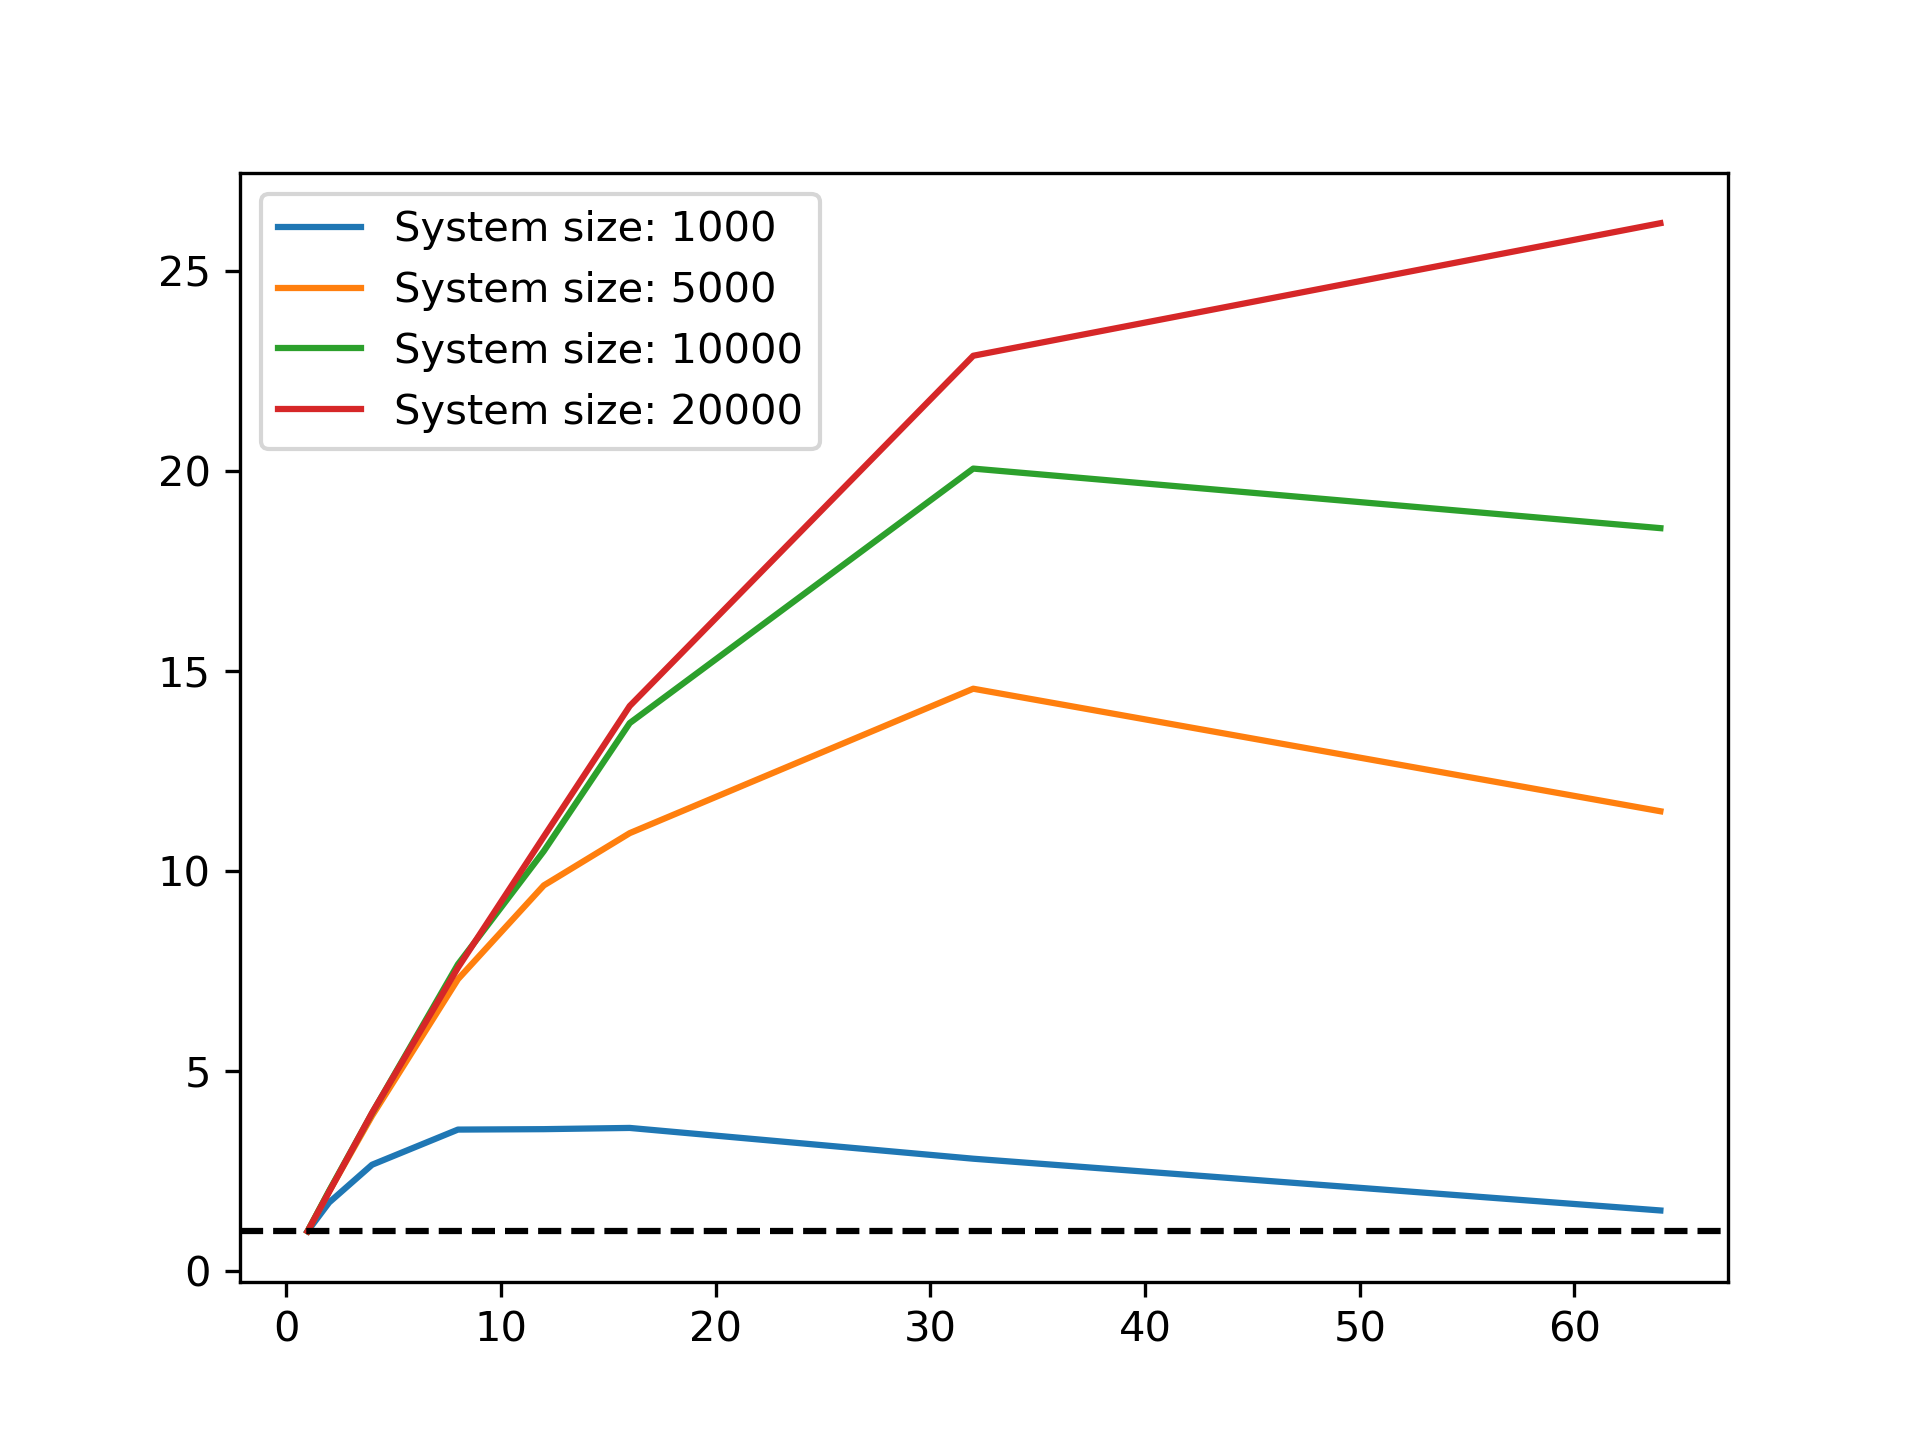
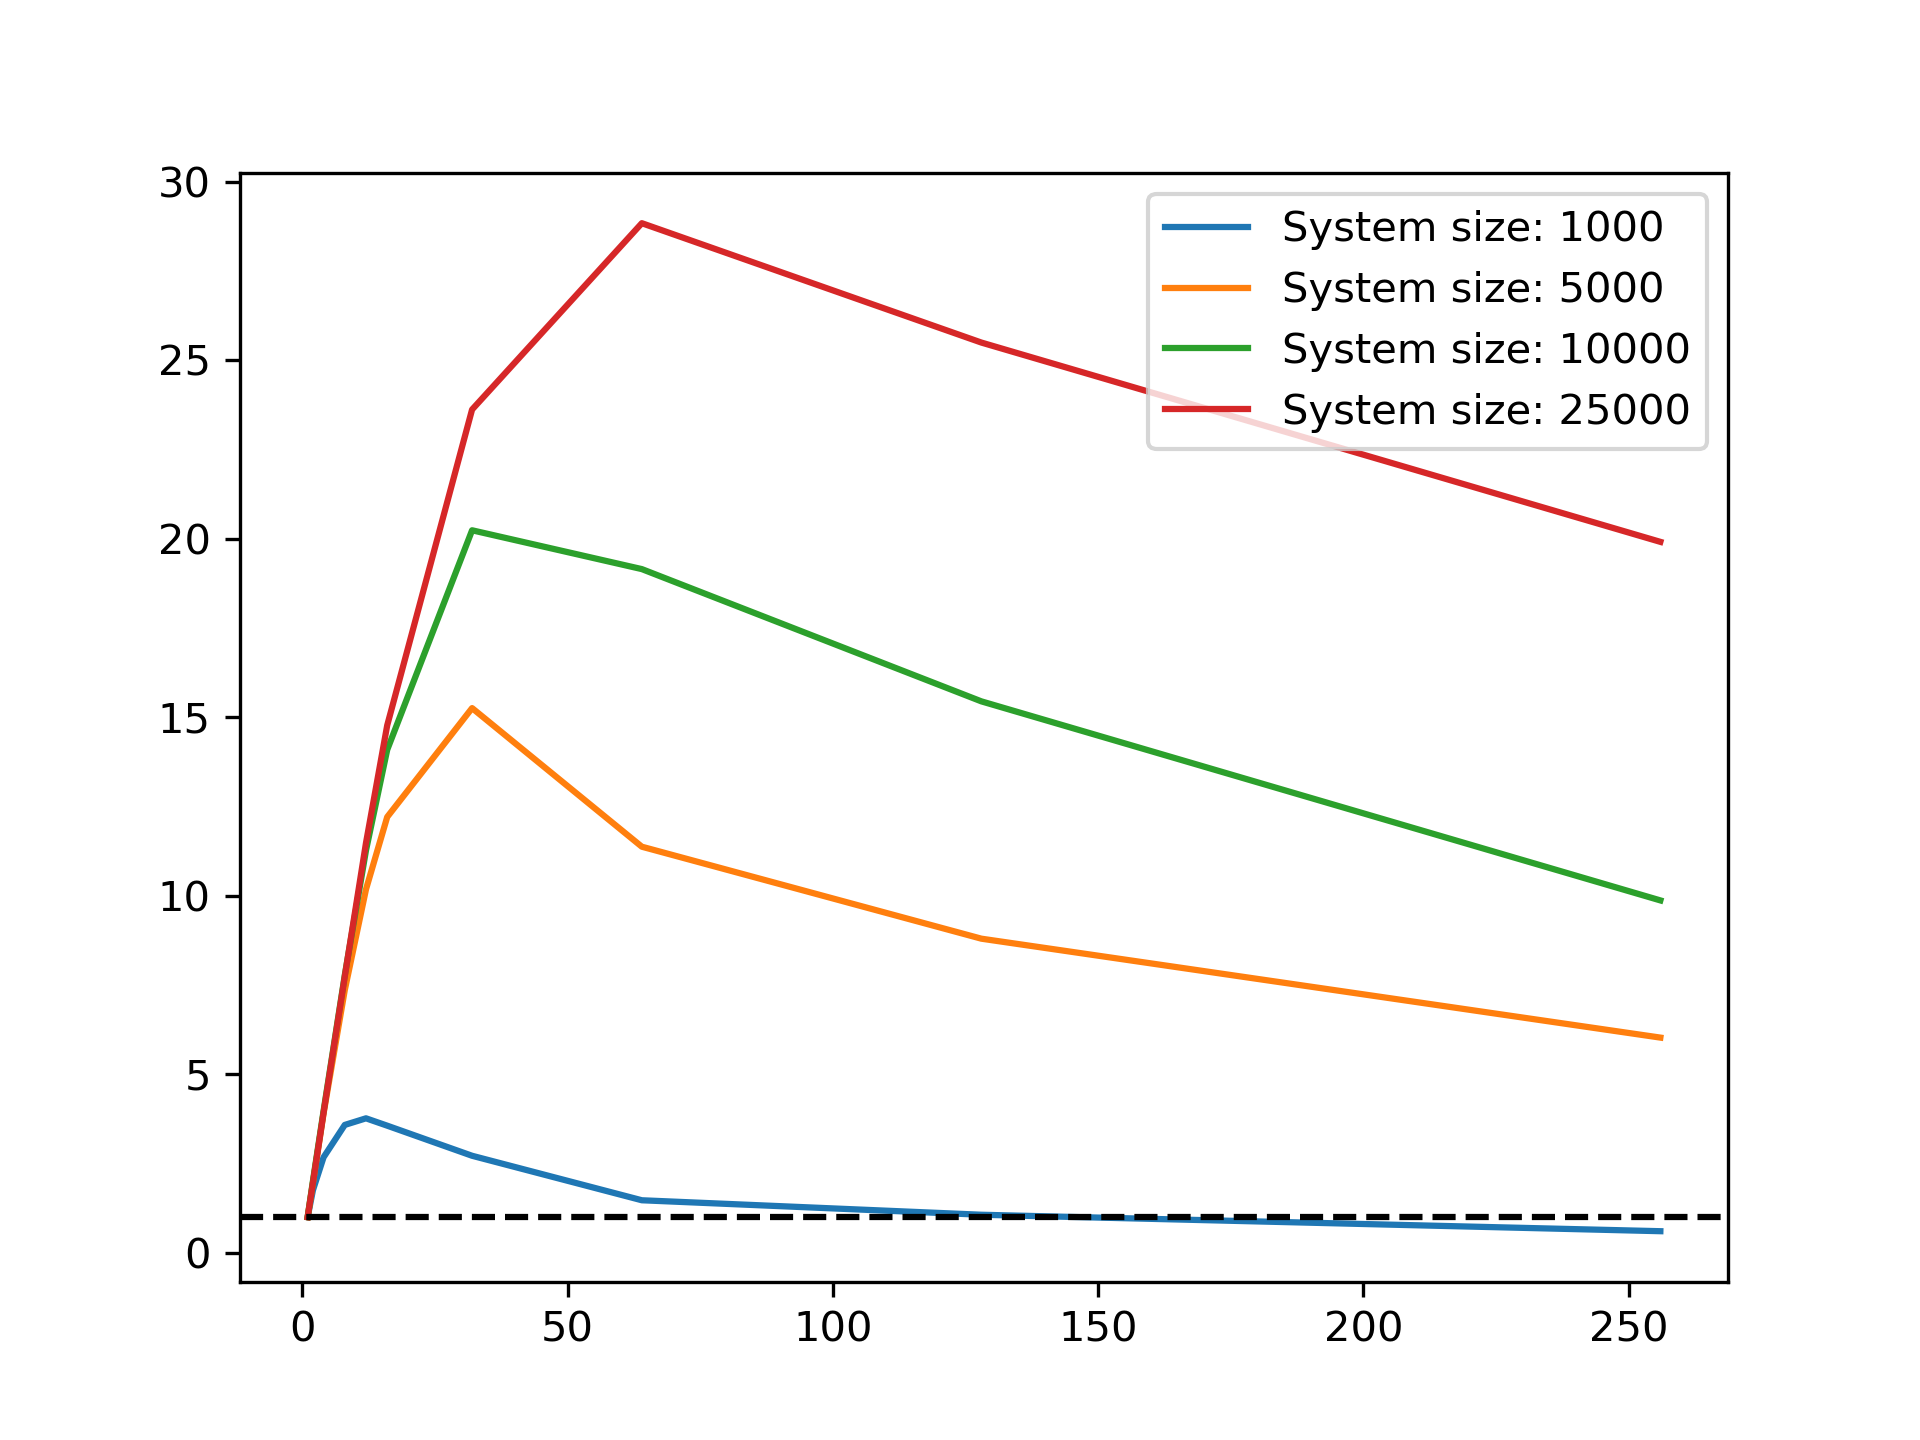
results

diff --git a/src/benchmark_bonds.cpp b/src/benchmark_bonds.cpp
@@ -1,0 +1,197 @@
+// main.cpp
+
+#include "system/System.h"
+#include "context/Context.h"
+#include "integrator/VerletIntegrator.h"
+#include "forces/LennardJonesForce.h"
+#include "forces/HarmonicBondForce.h"
+#include "forces/ElectrostaticForce.h"
+#include <iostream>
+#include "io/XYZWriter.h"
+#include "getopt.h"
+#include "logging/Verbose.h"
+#include "thread_manager/ThreadManager.h"
+#include <bits/stdc++.h>
+#include "logging/Chronometer.h"
+
+
+
+int main(int argc, char **argv) {
+    int c;
+    int harmonic_bond_threads = 0;
+    int electrostatic_bond_threads = 0;
+    int dispersion_force_threads = 0;
+    int num_atoms = 1;
+    int num_steps = 1;
+
+    while ((c = getopt(argc, argv, "vh:e:n:d:s:")) != -1) {
+        switch (c) {
+            case 'v':
+                setVerboseFlag(1);
+                break;
+            case 'h': {
+                try {
+                    int value = std::stoi(optarg);
+                    if (value < 0) {
+                        throw std::invalid_argument("non-positive value");
+                    }
+                    harmonic_bond_threads = value;
+                    printf("harmonic_bond_threads: %d\n", harmonic_bond_threads);
+                } catch (const std::exception& e) {
+                    std::cerr << "Invalid number of threads for -h: " << optarg << "\n";
+                    return EXIT_FAILURE;
+                }
+                break;
+            }
+            case 'e': {
+                try {
+                    int value = std::stoi(optarg);
+                    if (value < 0) {
+                        throw std::invalid_argument("non-positive value");
+                    }
+                    electrostatic_bond_threads = value;
+                    printf("electrostatic_bond_threads: %d\n", electrostatic_bond_threads);
+                } catch (const std::exception& e) {
+                    std::cerr << "Invalid number of threads for -e: " << optarg << "\n";
+                    return EXIT_FAILURE;
+                }
+                break;
+            }
+            case 'd': {
+                try {
+                    int value = std::stoi(optarg);
+                    if (value < 0) {
+                        throw std::invalid_argument("non-positive value");
+                    }
+                    dispersion_force_threads = value;
+                    printf("dispersion_force_threads: %d\n", dispersion_force_threads);
+                } catch (const std::exception& e) {
+                    std::cerr << "Invalid number of threads for -d: " << optarg << "\n";
+                    return EXIT_FAILURE;
+                }
+                break;
+            }
+            case 'n': {
+                try {
+                    int value = std::stoi(optarg);
+                    if (value <= 0) {
+                        throw std::invalid_argument("non-positive value");
+                    }
+                    num_atoms = value;
+                    printf("num_atoms: %d\n", num_atoms);
+                } catch (const std::exception& e) {
+                    std::cerr << "Invalid number of atoms for -n: " << optarg << "\n";
+                    return EXIT_FAILURE;
+                }
+                break;
+            }
+            case 's': {
+                try {
+                    int value = std::stoi(optarg);
+                    if (value <= 0) {
+                        throw std::invalid_argument("non-positive value");
+                    }
+                    num_steps = value;
+                    printf("num_steps: %d\n", num_steps);
+                } catch (const std::exception& e) {
+                    std::cerr << "Invalid number of steps for -s: " << optarg << "\n";
+                    return EXIT_FAILURE;
+                }
+                break;
+            }
+            default:
+                std::cerr << "Unknown option: " << c << "\n";
+                return EXIT_FAILURE;
+        }
+    }
+
+    Chronometer chronometer;
+
+    // chronometer.start("system_creation");
+    ThreadManager thread_manager(harmonic_bond_threads, dispersion_force_threads, electrostatic_bond_threads);
+
+    System system;
+    // system.addParticle(1.0, 1.0, 0.0, 0.0, 0.0);
+    // system.addParticle(1.0, 1.0, 1.0, 1.0, 1.0);
+
+    // system.addParticle(1.0, 2.0, 2.0, 2.0);
+    // system.addParticle(1.0, 3.0, 3.0, 3.0);
+    VerletIntegrator integrator(0.01, thread_manager, chronometer);
+
+    // auto electrostatic_force = std::make_shared<ElectrostaticForce>(1.0);
+    // electrostatic_force->num_threads = electrostatic_bond_threads;
+    // integrator.addForce(electrostatic_force);
+
+    // auto ljForce = std::make_shared<LennardJonesForce>(0.1, 1.0);
+    // ljForce->num_threads = dispersion_force_threads;
+    // // integrator.addForce(ljForce);
+
+    auto hbForce1 = std::make_shared<HarmonicBondForce>(1.0, 1.0);
+
+
+    for (int i = 0; i < num_atoms; ++i) {
+        // Placing particles along a 1D line (e.g., x-axis)
+        // system.addParticle(1.0, 1.0, i * 3.0, 1.0, 0.0);  // (mass, x, y, z)
+        int x = rand()%500;
+        int y = rand()%500;
+        int z = rand()%500;
+        // printf("x: %d, y: %d, z: %d\n", x, y, z);
+        system.addParticle(1.0, -1.0, x, y, z);  // (mass, x, y, z)
+        system.addParticle(1.0, 1.0, x+1, y+1, z+1);  // (mass, x, y, z)
+        hbForce1->addBond(0, 1);
+        // system.addParticle(rand()%100, rand()%100, rand()%100, 1.0, 0.0);  // (mass, x, y, z)
+        // show coords:;
+    }
+
+    integrator.addForce(hbForce1);
+
+    // integrator.addForce(hbForce1);
+
+
+    // // auto ljForce = std::make_shared<LennardJonesForce>(0.1, 1.0);
+    // hbForce1->addBond(0, 1);
+
+
+
+    // auto hbForce2 = std::make_shared<HarmonicBondForce>(1.0, 1.0);
+    // hbForce2->addBond(2, 3);
+
+    // // integrator.addForce(ljForce);
+    // integrator.addForce(hbForce2);
+
+    Context context(system, integrator);
+
+
+
+    // chronometer.end("system_creation");
+    // chronometer.printTiming("system_creation", "us");
+    // chronometer.printTimings();
+    VERBOSE("Starting the simulation with %zu particles\n", system.getNumParticles());
+
+    // Run the simulation
+    // context.runSimulation(100000);
+    // XYZWriter trajectoryWriter("trajectory.xyz");
+
+    // Run the simulation and write trajectory
+    // const int numSteps = 1;
+    const int output_interval = 100; // Output every 100 steps
+
+    for (int step = 0; step < num_steps; ++step) {
+        // context.step();
+         context.runSimulation(1);
+        if (step % output_interval == 0) {
+            // trajectoryWriter.writeFrame(system); // Write the current frame
+        }
+    }
+
+    // Close the trajectory writer
+    // trajectoryWriter.close();
+// 
+    // Output the final positions of particles
+    // for (size_t i = 0; i < system.getNumParticles(); ++i) {
+    //     auto pos = system.getParticle(i).getPosition();
+    //     std::cout << "Particle " << i << " final position: (" << pos[0] << ", " << pos[1] << ", " << pos[2] << ")\n";
+    // }
+
+    return 0;
+}

diff --git a/report/report.tex b/report/report.tex
@@ -301,7 +301,8 @@ time complexity.
         for particles in system:
             for particles in system:
                 - calculate distance
-                - compute electrostatic force
+                - compute electrostatic 
+                  force
     \end{lstlisting}
 
 
@@ -369,7 +370,7 @@ individual level.
         see a ... for small systems and ..... for larger systems
         \begin{figure}[H]
             \centering
-            \fbox{\textbf{[Image Placeholder]}} % This creates a placeholder box with text
+            \includegraphics[width=\linewidth]{./images/dispersion_scaling.png} % This creates a placeholder box with text
             \caption{Speedup of a range of systems containing only dispersion interaction in function of the number 
             of threads.}\label{fig:dispersion-speedup}
         \end{figure}

diff --git a/src/forces/HarmonicBondForce.cpp b/src/forces/HarmonicBondForce.cpp
@@ -38,6 +38,7 @@ void HarmonicBondForce::compute(System& system,
     
     #pragma omp parallel num_threads(num_threads)
     {
+        printf("%d", omp_get_num_threads());
         // int thread_id = omp_get_thread_num(); // Get the thread ID for the current thread
         // auto& thread_local_forces = local_forces[thread_id]; // Reference to this thread's local forces
         std::vector<std::array<double, 3>> thread_local_forces(num_particles, {0.0, 0.0, 0.0});
